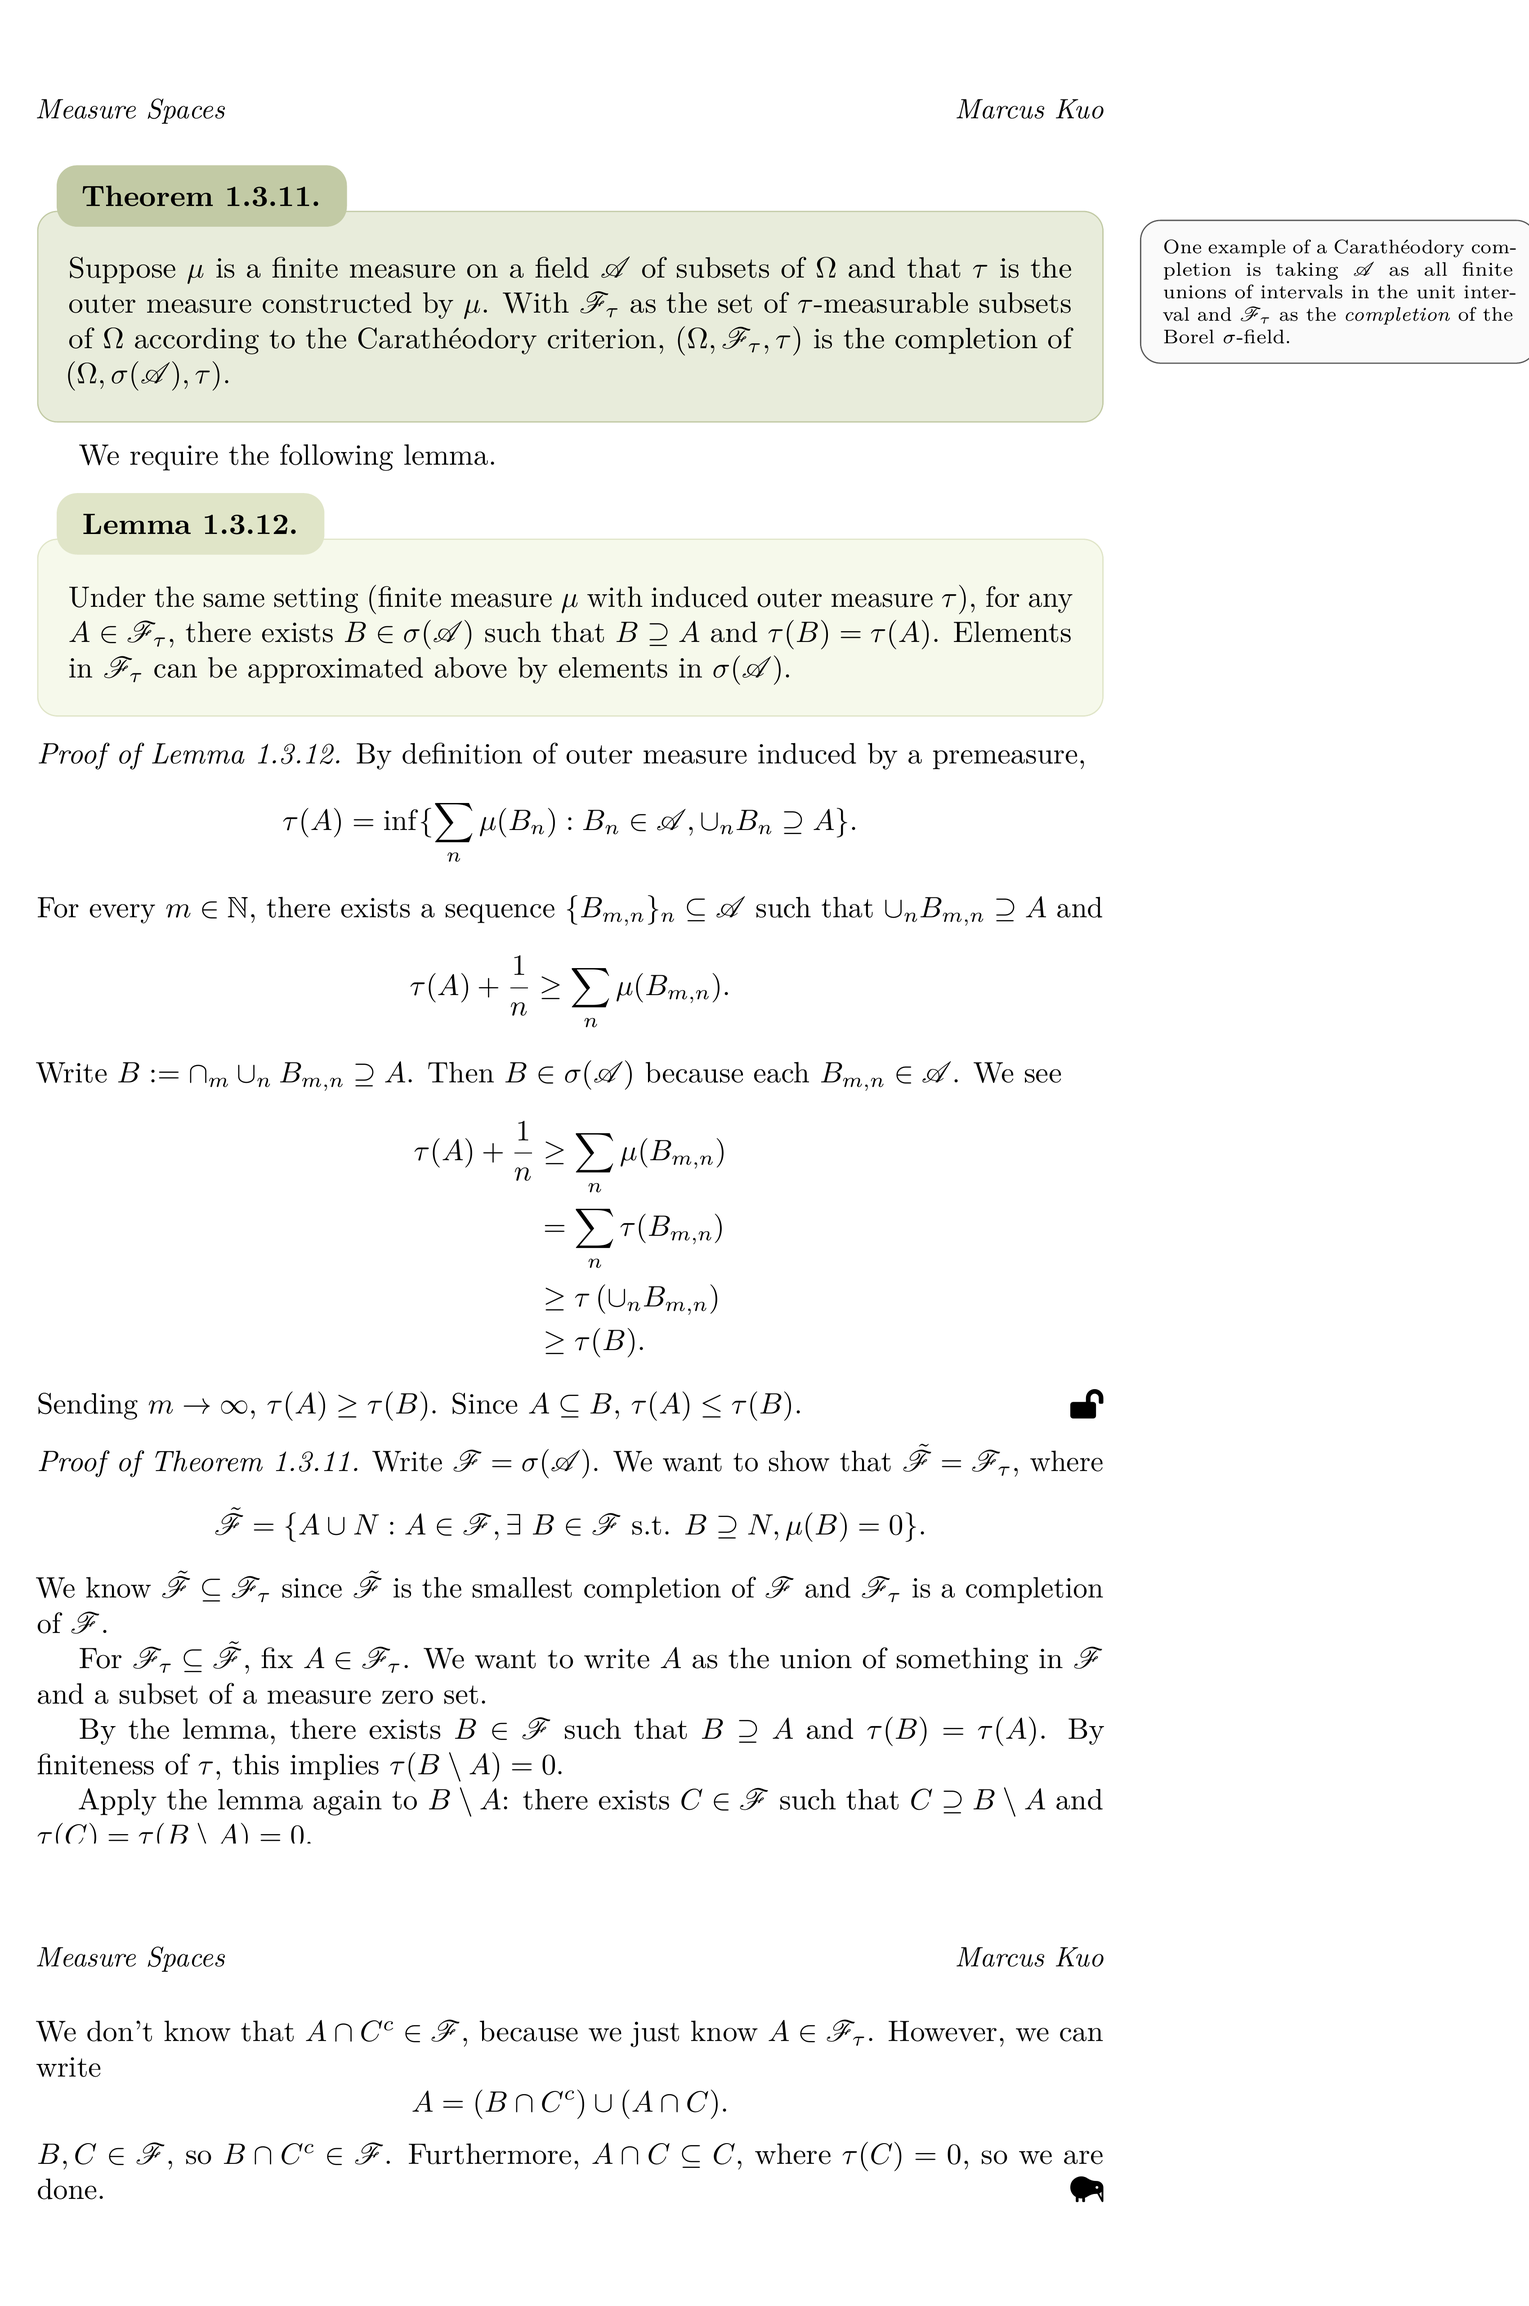
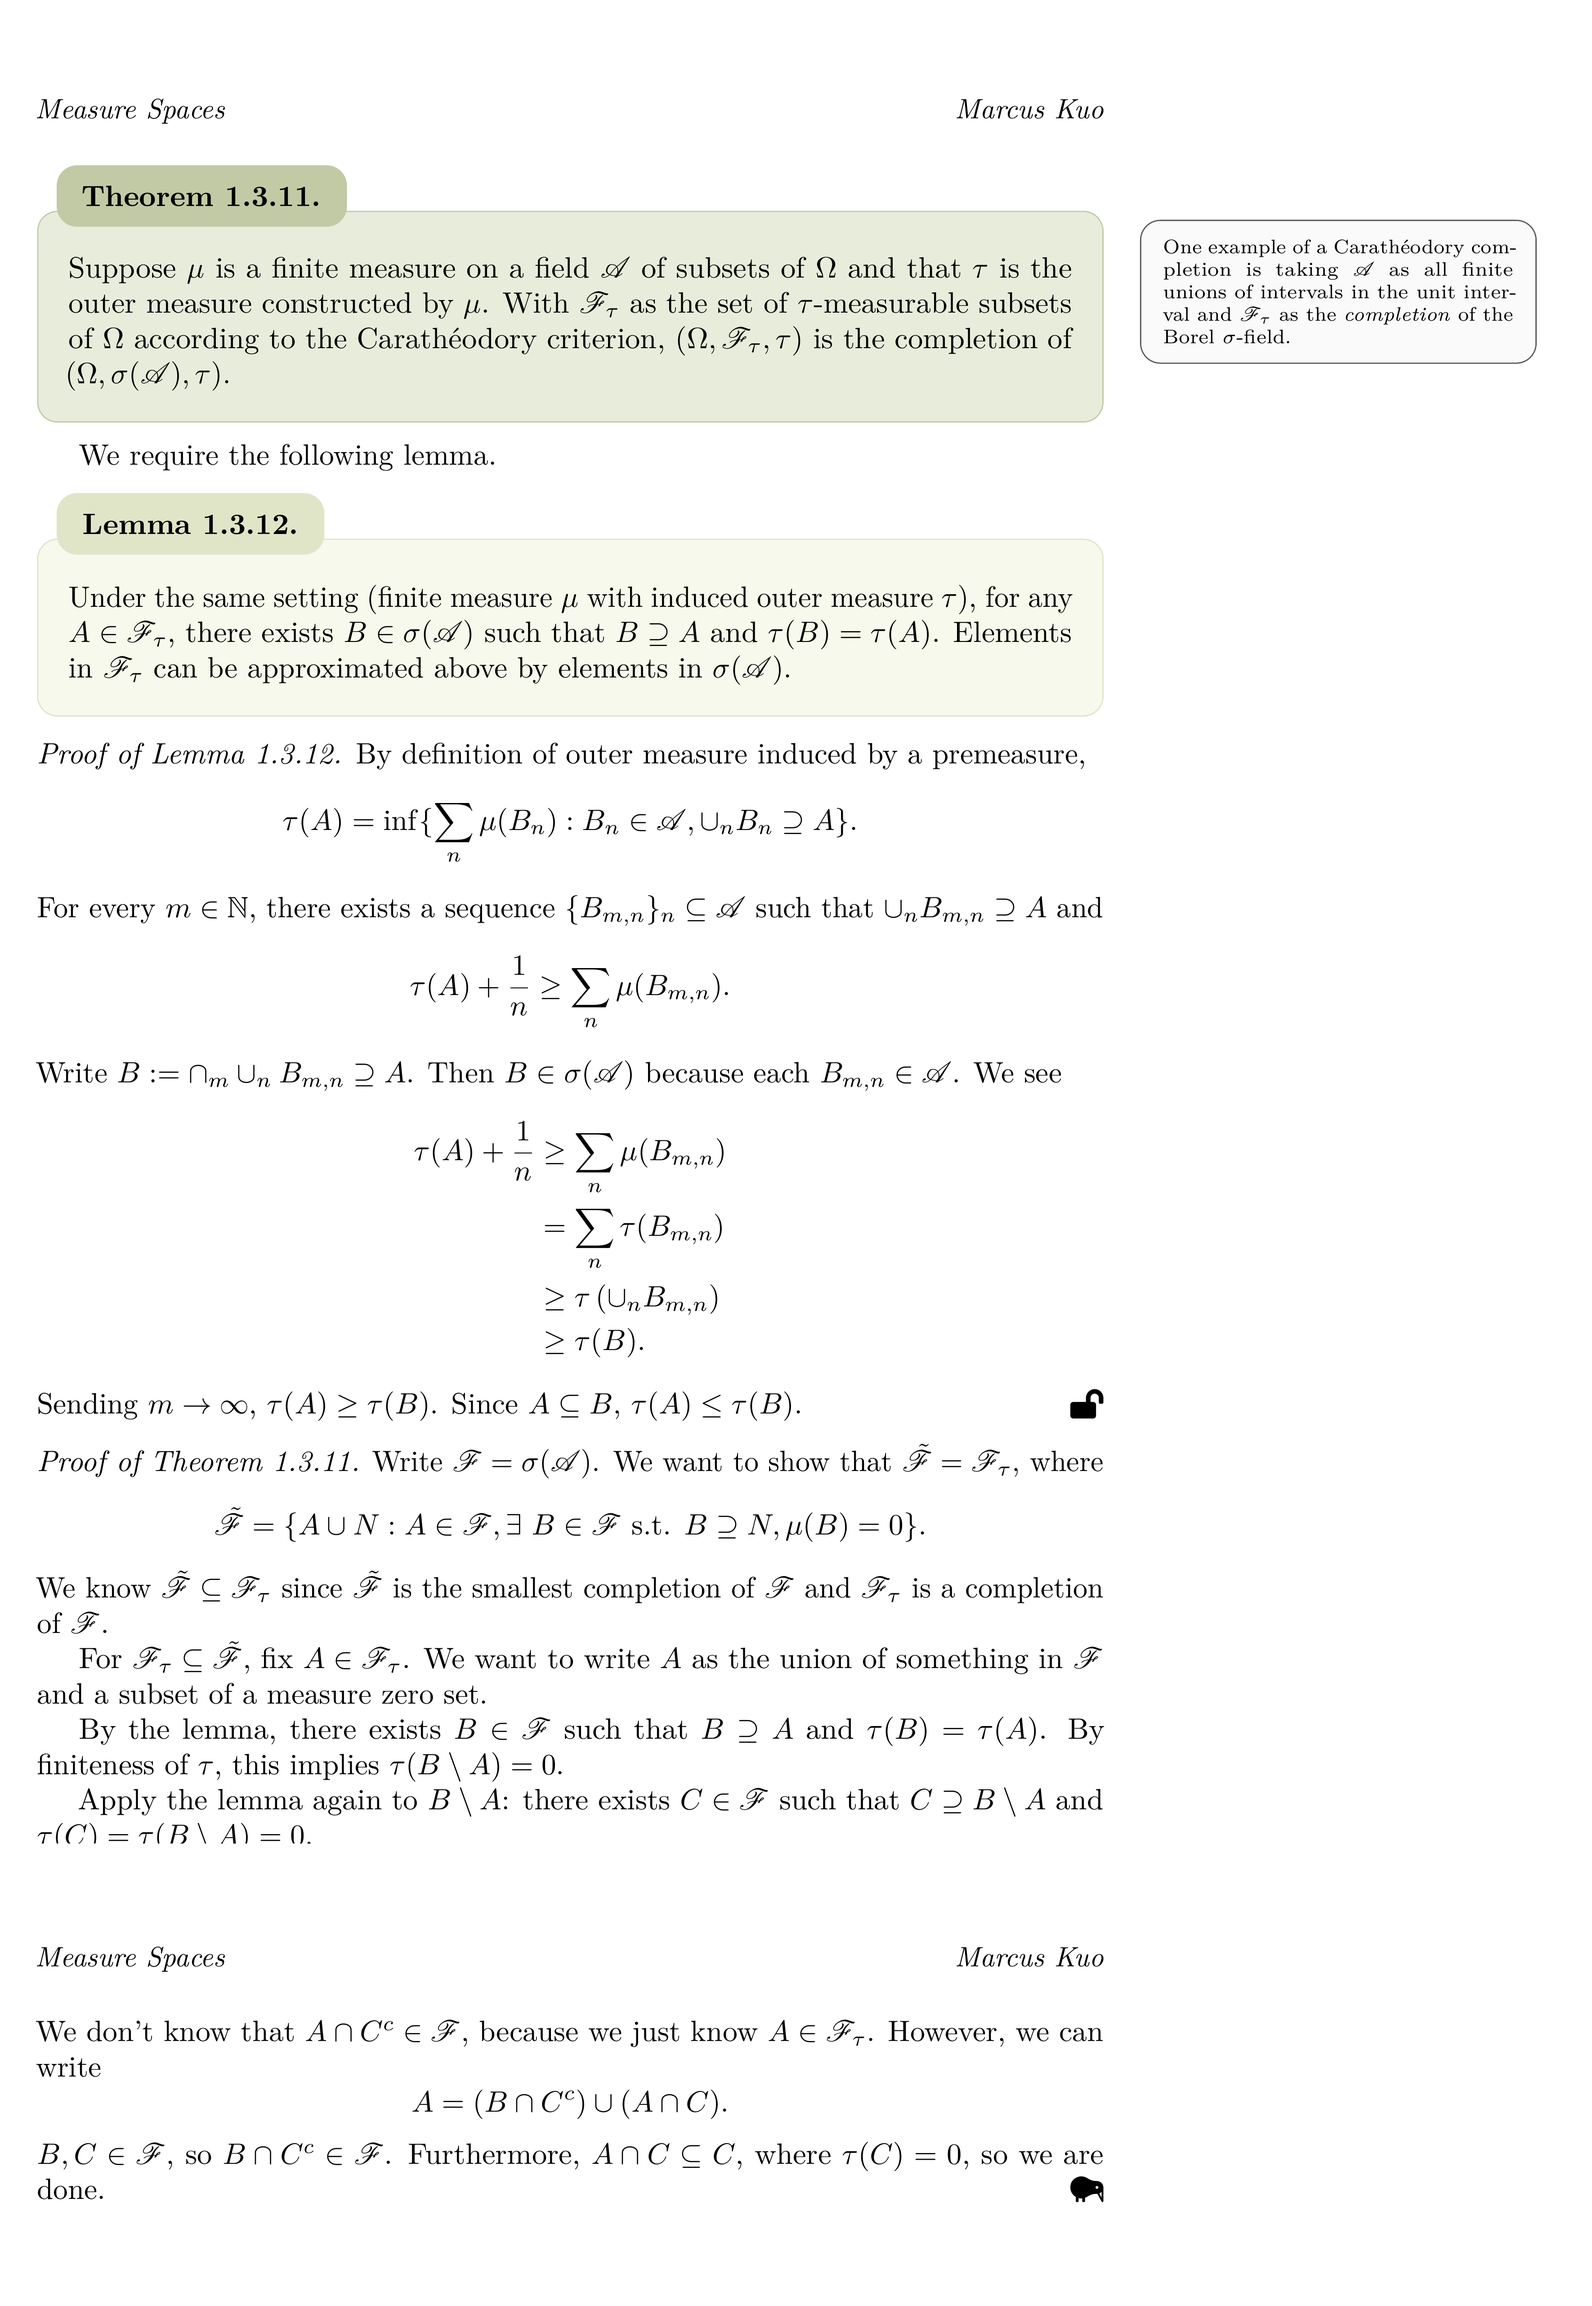
sync: update notes for ECMA30800/Lecture Notes, ECON21030/Lecture Notes, STAT37400/Lecture Notes, STAT38100/Lecture Notes, ECMA33210/Lecture Notes, MATH23500/Lecture Notes, MATH27300/Lecture Notes, STAT24410/Lecture Notes

diff --git a/README.md b/README.md
@@ -2,34 +2,18 @@
 
 Selected lecture notes of varying degrees of polish.
 
-## LiveTeXing Setup
+## Table of Contents
 
-These notes are typeset in real time during lectures and minimally cleaned up afterwards (usually as I go through them when studying for midterms/finals).
-
-I use Neovim with VimTeX, Skim, and UltiSnips. Snippets are what allow me to LiveTeX.
-
-The snippets started from Gilles Castel's [guide](https://castel.dev/post/lecture-notes-1/) on LiveTeXing, which seems to have helped many people.[^1] 
-The full snippet file is at `shared/snippets/tex.snippets`. It's a bit messy and idiosyncratic; I would recommend starting with Castel's snippets and building your own as you see fit.
-
-## Features of Notes
-
-To give credit: the format of the notes from Winter 2026 and on was heavily inspired by a set of course notes by Alexander Torgovitsky.
-
-![Theorem and lemma screenshot](assets/thm-lemma-readme.png)
-
-Some nice features of my notes I would like you to notice:
-
-- Oftentimes, a theorem is presented, a necessary lemma is introduced, and the lemma is proved before the theorem. This provides a challenge to my proof system, which searches back for the immediately preceeding counter to use in "Proof of Theorem A.B.C." To get around this without changing the theorem--lemma--lemma--theorem sandwich (sandwiches have the bread on the outside for a reason), I am able to manually override the "name" of proofs.
-
-- The QED symbols (from the fontawesome5 package) differ based on what is being proved. Proofs of *lemmas* end with an unlocked lock, as *lemma* and *lock* start with the letter L, and *lemmas* un*lock* a tool for later use. Theorem, proposition, and corollary proofs end with a Kiwi bird symbol. Examples (note: not example proofs!) end with a frog symbol because there were no good fontawesome5 symbols that started with the letter E.
-
-- Theorems and propositions are in a medium-toned green, while lemmas and corollaries are in a lighter green. This is because the first two are usually "main" results and should stand out more. Definitions are yellow, examples are red-orange-brown, and assumptions are brown-red-orange. These rounded out a (hopefully) harmonious color palette. Proofs and body text are not in a color box environment because if everything is highlighted, nothing is highlighted.
-
-- I try to use footnotes and boxed margin notes intentionally: footnotes are for when I need the comment to point to a specific part (often word) in the text or for when the comment is *very* unrelated, while margin notes are preferred (to avoid too much pointless white space) and used when ambiguity of the anchoring point is fine. 
+- [Courses](#courses)
+  - [Spring 2026](#spring-2026)
+  - [Winter 2026](#winter-2026)
+  - [Autumn 2025](#autumn-2025)
+- [Features of Notes](#features-of-notes)
+- [LiveTeXing Setup](#livetexing-setup)
 
 ## Courses
 
-**Spring 2026**:
+### Spring 2026
 
 ECMA 30760: Introduction to Economic Design
 
@@ -39,7 +23,7 @@ ECON 21031: Econometrics II -- Honors
 
 ECON 24050: Labor Economics and Public Policy
 
-**Winter 2026**:
+### Winter 2026
 
 [ECON 21030](https://github.com/kuomarcus22/UChicago-Notes/tree/main/ECON21030/Lecture%20Notes): Econometrics -- Honors
 
@@ -49,7 +33,9 @@ ECON 24050: Labor Economics and Public Policy
 
 [STAT 37400](https://github.com/kuomarcus22/UChicago-Notes/tree/main/STAT37400/Lecture%20Notes): Nonparametric Inference
 
-**Autumn 2025** (worse quality than Winter 2026):
+### Autumn 2025
+
+Worse quality than Winter 2026.
 
 [ECMA 33210](https://github.com/kuomarcus22/UChicago-Notes/tree/main/ECMA33210/Lecture%20Notes): Advanced Topics in Macroeconomics (not a superset of content in slides)
 
@@ -59,7 +45,33 @@ ECON 24050: Labor Economics and Public Policy
 
 [STAT 24410](https://github.com/kuomarcus22/UChicago-Notes/tree/main/STAT24410/Lecture%20Notes): Statistical Theory and Methods 1a
 
+
+## Features of Notes
+
+To give credit: the format of the notes from Winter 2026 and on was heavily inspired by a set of course notes by Alexander Torgovitsky.
+
+Some nice features of my notes I would like you to notice:
+
+- Oftentimes, a theorem is presented, a necessary lemma is introduced, and the lemma is proved before the theorem. This provides a challenge to my proof system, which searches back for the immediately preceeding counter to use in "Proof of Theorem A.B.C." To get around this without changing the theorem--lemma--lemma--theorem sandwich (sandwiches have the bread on the outside for a reason), I am able to manually override the "name" of proofs.
+
+- The QED symbols (from the fontawesome5 package) differ based on what is being proved. Proofs of *lemmas* end with an unlocked lock, as *lemma* and *lock* start with the letter L, and *lemmas* un*lock* a tool for later use. Theorem, proposition, and corollary proofs end with a Kiwi bird symbol. Examples (note: not example proofs!) end with a frog symbol because there were no good fontawesome5 symbols that started with the letter E.
+
+- Theorems and propositions are in a medium-toned green, while lemmas and corollaries are in a lighter green. This is because the first two are usually "main" results and should stand out more. Definitions are yellow, examples are red-orange-brown, and assumptions are brown-red-orange. These rounded out a (hopefully) harmonious color palette. Proofs and body text are not in a color box environment because if everything is highlighted, nothing is highlighted.
+
+- I try to use footnotes and boxed margin notes intentionally: footnotes are for when I need the comment to point to a specific part (often word) in the text or for when the comment is *very* unrelated, while margin notes are preferred (to avoid too much pointless white space) and used when ambiguity of the anchoring point is fine. I am better about this in later courses.
+
+![Theorem and lemma screenshot](assets/thm-lemma-readme.png)
+
+## LiveTeXing Setup
+
+These notes are typeset in real time during lectures and minimally cleaned up afterwards (usually as I go through them when studying for midterms/finals).[^1]
+
+I use Neovim with VimTeX, Skim, and UltiSnips. Snippets are what allow me to LiveTeX.
+
+The snippets started from Gilles Castel's [guide](https://castel.dev/post/lecture-notes-1/) on LiveTeXing, which seems to have helped many people.[^2] The full snippet file is at `shared/snippets/tex.snippets`. It's a bit messy and idiosyncratic; I would recommend starting with Castel's snippets and building your own as you see fit.
+
 ---
 
+[^1]: Starting in Spring 2026, some lecture notes are built around the course slides fed into an LLM, where I add onto the slide content during class. Why do this instead of annotating the slides? It's because I'm lazy, and want everything in one place, in one format --- I don't want to read handwriting (even my own), and I would prefer to digest content from lecture slides in a textbook style consistent across courses. I can also edit and rephrase the content of the slides if an explanation doesn't click with me. The LLM does give a benefit, since lectures from slides (as opposed to those based on board work) often go too fast to copy everything important *and* process all the spoken information. I'm still fine-tuning the agent skills used to convert slides into notes skeletons.
 
-[^1]: If you follow his guide, you will notice he uses Zathura as a PDF viewer. If you're on a Mac, save yourself the failed troubleshooting I went through and use a different viewer like Skim. (Skim is particularly nice because it's quick and auto-refreshes PDFs when they are rewritten.)
+[^2]: If you follow his guide, you will notice he uses Zathura as a PDF viewer. If you're on a Mac, save yourself the failed troubleshooting I went through and use a different viewer like Skim. (Skim is particularly nice because it's quick and auto-refreshes PDFs when they are rewritten.)
